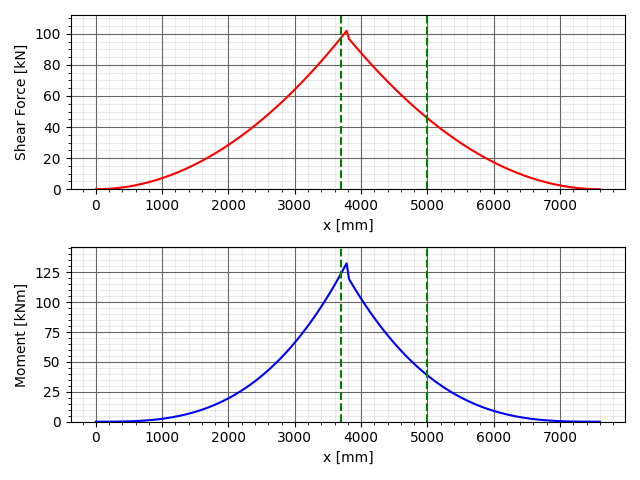
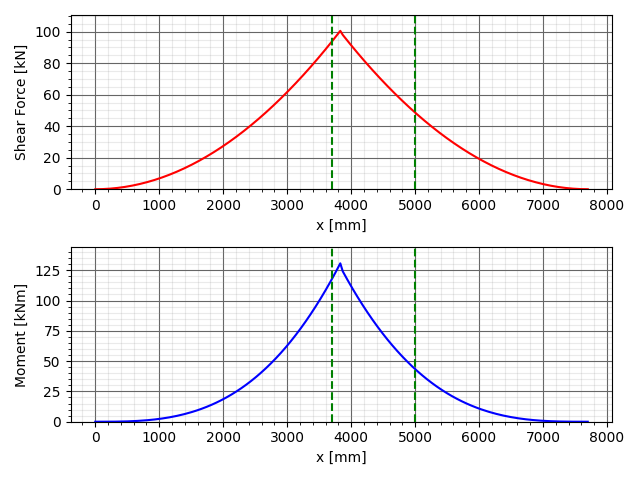
Fuselage design almost done

diff --git a/Structures/Fuselage/fus_main.py b/Structures/Fuselage/fus_main.py
@@ -71,39 +71,120 @@ def critical_values(data, shear_threshold, cripling_comp, cripling_tens):
     return shear_crit, tens_crit, comp_crit
 
 
-def plot_margin(data, max_compres, max_crippling, max_shear):
-    max_bending = data[data["zcoor"] == 1000]
-    min_bending = data[data["zcoor"] == -620]
-    shear = data[data["ycoor"] == 400]
-    print(shear)
+def plot_margin(data1, objects):
+    compression = []
+    tensile = []
+    shear = []
+    x = []
 
+    for idx, data in enumerate(data1):
+        max_bending1 = data[data["zcoor"] == 1000]
+        min_bending1 = data[data["zcoor"] == -620]
+        shear1 = data[data["ycoor"] == 400.0]
+        print(shear1)
+
+        compression.extend(
+            objects[idx].stringerCripplingComp / x
+            for x in max_bending1["bendingstress"]
+        )
+        tensile.extend(
+            -objects[idx].stringerCripplingTens / x
+            for x in min_bending1["bendingstress"]
+        )
+        
+        shear.extend(objects[idx].shear / x for x in shear1["shearstress"])
+        x.extend(max_bending1["xcoor"].tolist())
+    print(shear)
     plt.plot(
-        max_bending["xcoor"],
-        [max_compres / x for x in max_bending["bendingstress"]],
+        x,
+        compression,
         label="Bending Compression",
+        color="deepskyblue",
     )
     plt.plot(
-        max_bending["xcoor"],
-        [-max_crippling / x for x in min_bending["bendingstress"]],
+        x,
+        tensile,
         label="Bending Tensile",
+        color="firebrick",
     )
     plt.plot(
-        shear["xcoor"], [max_shear / x for x in shear["shearstress"]], label="Shear"
+        x,
+        shear,
+        label="Shear",
+        color="forestgreen",
     )
+
     plt.grid(visible=True, which="major", color="#666666", linestyle="-")
     plt.minorticks_on()
     plt.grid(visible=True, which="minor", color="#999999", linestyle="-", alpha=0.2)
 
     plt.xlabel("X [mm]")
-    plt.ylabel("Stress ratio [-]")
-    plt.legend()
+    plt.ylabel("Allowable stress / Actual stress [-]")
+    plt.ylim(1, 4.2)
+    plt.hlines(y =1.5, xmin=x[0], xmax=x[-1], ls="--", label="Limit", color="darkorange")
+    plt.legend(loc="upper right")
     plt.title("Safety margins of structure")
 
     plt.show()
+    
+def design_fuse():
+    # Manual y coordinate placement
+    bot = [0.0, 250, 400]  # From LEFT to Right in y
+    side = [250]  # From RIGHT to LEFT in y
+    side2 = [750]  ## This one are the z coordinates, Bottom to TOP!
+    top = [250, 0.0]  # From right to left in y
+    
+    # for thickness in range
 
+    fuselage = Fuselage_idealized(
+        flange_thickness=0.96,
+        web_thickness=0.64,
+        stringer_width=10,
+        stringer_height=15,
+        skin_thickness=0.80,
+        start_x= 4200,
+        end_x=4450,
+        top=top,
+        bot=bot,
+        side=side,
+        side2=side2,
+        manual_place=True,
+    )
+    
+    fuselage.create_fuselage()
+    results = Fuselage_apply_loads.apply_forces(fuselage, 8)
+    shear, comp, tens = critical_values(
+    results,
+    fuselage.shear,
+    fuselage.stringerCripplingComp,
+    fuselage.stringerCripplingTens,
+)
+
+    print(f"- Critical Compression points: {comp.head(100)}\n")
+    print(f"- Critical Tensile points: {tens.head(100)}\n")
+    print(f"- Critical shear points: {shear.head(100)}\n")
+    print(
+        f"Crititcal crippling compression = {round(fuselage.stringerCripplingComp, 2)} [MPa]"
+    )
+    print(
+        f"Crititcal crippling tension = {round(fuselage.stringerCripplingTens,2)} [MPa]"
+    )
+    print(f"Critical shear stress = {fuselage.shear} [MPa]\n")
+
+    print(f"The fuselage weight = {round(fuselage.weight,2)} [kg]")
+
+    # plot_shear(results)
+    # plot_moment(results)
+    
+    plot_margin([results], [fuselage])
+    
+    return results
+    
+if __name__ == "__main__":
+    results = design_fuse()
 
 #%%
-if __name__ == "__main__":
+def final_design():
     # Manual y coordinate placement
     bot = [0.0, 250, 400]  # From LEFT to Right in y
     side = [250]  # From RIGHT to LEFT in y
@@ -111,34 +192,58 @@ if __name__ == "__main__":
     top = [250, 0.0]  # From right to left in y
 
     fuselage1 = Fuselage_idealized(
-        spacing_3d=20,
-        stringer_spacing=500,
         flange_thickness=0.96,
         web_thickness=0.96,
         stringer_width=10,
         stringer_height=15,
         skin_thickness=0.96,
-        density=1480,
         start_x=3696,
-        end_x=400,
+        end_x=4200,
         top=top,
         bot=bot,
         side=side,
         side2=side2,
         manual_place=True,
     )
-
+    
     fuselage2 = Fuselage_idealized(
-        spacing_3d=20,
-        stringer_spacing=500,
         flange_thickness=0.96,
-        web_thickness=0.96,
+        web_thickness=0.64,
         stringer_width=10,
         stringer_height=15,
-        skin_thickness=0.96,
-        density=1480,
-        start_x=3696,
-        end_x=400,
+        skin_thickness=0.80,
+        start_x= 4200,
+        end_x=4450,
+        top=top,
+        bot=bot,
+        side=side,
+        side2=side2,
+        manual_place=True,
+    )
+  
+    fuselage3 = Fuselage_idealized(
+        flange_thickness=0.96,
+        web_thickness=0.64,
+        stringer_width=10,
+        stringer_height=15,
+        skin_thickness=0.64,
+        start_x=4450,
+        end_x=4800,
+        top=top,
+        bot=bot,
+        side=side,
+        side2=side2,
+        manual_place=True,
+    )
+    
+    fuselage4 = Fuselage_idealized(
+        flange_thickness=0.96,
+        web_thickness=0.64,
+        stringer_width=10,
+        stringer_height=15,
+        skin_thickness=0.48,
+        start_x=4800,
+        end_x=4996,
         top=top,
         bot=bot,
         side=side,
@@ -146,37 +251,21 @@ if __name__ == "__main__":
         manual_place=True,
     )
     fuselage1.create_fuselage()
+    fuselage2.create_fuselage()
+    fuselage3.create_fuselage()
+    fuselage4.create_fuselage()
+    
     results1 = Fuselage_apply_loads.apply_forces(fuselage1, 8)
+    results2 = Fuselage_apply_loads.apply_forces(fuselage2, 8)
+    results3 = Fuselage_apply_loads.apply_forces(fuselage3,8)
+    results4 = Fuselage_apply_loads.apply_forces(fuselage4, 8)
+    
+    plot_margin([results1, results2, results3, results4], [fuselage1, fuselage2,fuselage3,fuselage4])
 
-    shear1, comp1, tens1 = critical_values(
-        results1,
-        fuselage1.shear,
-        fuselage1.stringerCripplingComp,
-        fuselage1.stringerCripplingTens,
-    )
-
-    plot_margin(
-        results,
-        fuselage1.stringerCripplingComp,
-        fuselage1.stringerCripplingTens,
-        fuselage1.shear,
-    )
-
-    print(f"- Critical Compression points: {comp1.head(100)}\n")
-    print(f"- Critical Tensile points: {tens1.head(100)}\n")
-    print(f"- Critical shear points: {shear1.head(100)}\n")
-    print(
-        f"Crititcal crippling compression = {round(fuselage1.stringerCripplingComp, 2)} [MPa]"
-    )
-    print(
-        f"Crititcal crippling tension = {round(fuselage1.stringerCripplingTens,2)} [MPa]"
-    )
-    print(f"Critical shear stress = {fuselage1.shear} [MPa]\n")
-
-    print(f"The fuselage weight = {round(fuselage1.weight,2)} [kg]")
-
-    plot_shear(results)
-    plot_moment(results)
+    print(fuselage4.weight +fuselage1.weight +fuselage2.weight+ fuselage3.weight)
+#%%
+final_design()
+    
 
 
 # %%

diff --git a/Structures/Fuselage/fus_idealization.py b/Structures/Fuselage/fus_idealization.py
@@ -15,7 +15,7 @@ class Fuselage_idealized:
 
     def __init__(
         self,
-        spacing_3d: int = 100,
+        spacing_3d: int = 20,
         stringer_spacing: float = 140,
         flange_thickness: float = 1.5,
         web_thickness: float = 1,
@@ -30,10 +30,11 @@ class Fuselage_idealized:
         material_comp_stress: float = 533.8656197958434e6,
         material_tens_stress: float = 890.2474375138635e6,
         manual_place: bool = False,
-        top: list = [],
-        side: list = [],
-        side2: list = [],
-        bot: list = [],
+        bot = [0.0, 250, 400],  # From LEFT to Right in y
+        side = [250],  # From RIGHT to LEFT in y
+        side2 = [750],  ## This one are the z coordinates, Bottom to TOP!
+        top = [250, 0.0]  # From right to left in y
+
     ):
         self.spacing_3d = spacing_3d
         self.stringerSpacing = stringer_spacing
@@ -42,7 +43,7 @@ class Fuselage_idealized:
         self.stringerWidth = stringer_width
         self.stringerHeight = stringer_height
         self.skinThickness = skin_thickness
-        self.x = np.arange(start_x, end_x + 0.01, self.spacing_3d)
+        self.x = np.arange(start_x, end_x, self.spacing_3d)
         self.data = pd.DataFrame()
         self.density = density
         self.E = E
@@ -115,7 +116,7 @@ class Fuselage_idealized:
         distanceTop = 0
         distanceBot = 0
 
-        yChecking = np.arange(0, 400, 0.01)
+        yChecking = np.arange(0, 400, 0.07)
         self.totalDistance = 250
 
         # Function to place the stringers equally spaced around the 50% fuselage

diff --git a/Structures/Fuselage/fus_loads.py b/Structures/Fuselage/fus_loads.py
@@ -8,8 +8,8 @@ from matplotlib import pyplot as plt
 
 g0 = 9.81
 
-aircraftMass = 888  # aircraft mass, [kg]
-full_fuse = 7.6  # fuselage length
+aircraftMass = 876  # aircraft mass, [kg]
+full_fuse = 7.7  # fuselage length
 fw_CG = 3.8  # forward CG position
 aft_CG = 4.0  # aft CG position
 wing_pos = 4.112  # wing position
@@ -102,6 +102,8 @@ def plot_load_distribution():
     fig.tight_layout()
     plt.savefig("loads12g")
     plt.show()
+    
+    
 
 
 if __name__ == "__main__":
